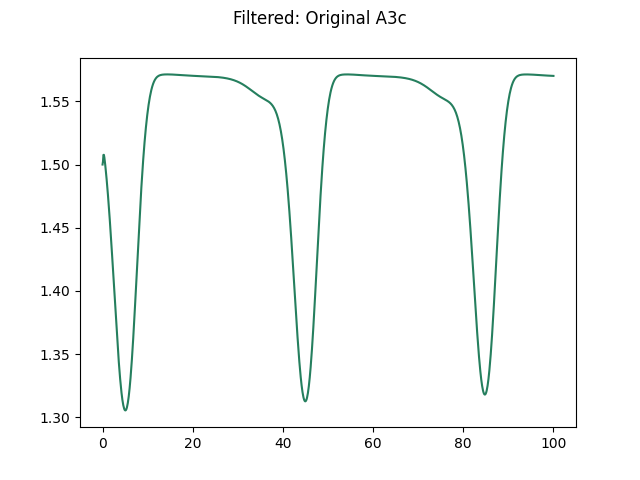
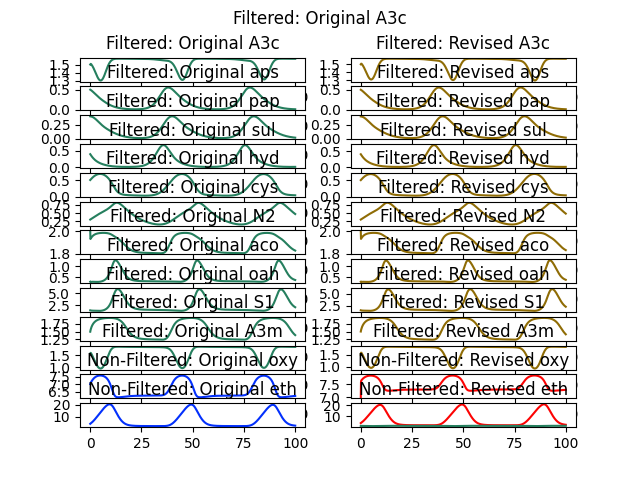
display based on variables complete

diff --git a/static/js/index.js b/static/js/index.js
@@ -11,7 +11,7 @@
 "use strict";
 
 (function() {
-
+  let options = new Set();
   window.addEventListener("load", init);
 
   /**
@@ -31,6 +31,33 @@
       eve.preventDefault();
       runMatcher();
     });
+    id("display-variables").addEventListener("change", selectToDisplay);
+  }
+
+  function selectToDisplay() {
+    if (this.value === "all") {
+      showAllGraphs();
+    } else {
+      hideAllGraphs();
+      let targets = document.getElementsByClassName(this.value);
+      for (let i = 0; i < targets.length; i++) {
+        targets[i].style.display = "";
+      }
+    }
+  }
+
+  function hideAllGraphs() {
+    let allImg = qsa("img");
+    for (let i = 0; i < allImg.length; i++) {
+      allImg[i].style.display = "none";
+    }
+  }
+
+  function showAllGraphs() {
+    let allImg = qsa("img");
+    for (let i = 0; i < allImg.length; i++) {
+      allImg[i].style.display = "";
+    }
   }
 
   function openTab(tabId) {
@@ -66,21 +93,35 @@
   function showResponse(res) {
     let filtered = res.filtered;
     let non_filtered = res['non-filtered'];
-    console.log(filtered);
-    console.log(non_filtered);
     for (let i = 0; i < filtered.length; i++) {
-      let imgPath = filtered[i]
+      let imgPath = filtered[i][0];
       let img = gen("img");
       img.src = "images/filtered/" + imgPath;
       img.id = imgPath;
+      img.classList.add(filtered[i][1]);
       id("filtered-content").appendChild(img);
+      if (!options.has(filtered[i][1])) {
+        let option = gen("option");
+        option.value = filtered[i][1];
+        option.text = filtered[i][1];
+        options.add(filtered[i][1])
+        id("display-variables").appendChild(option);
+      }
     }
     for (let i = 0; i < non_filtered.length; i++) {
-      let imgPath = non_filtered[i]
+      let imgPath = non_filtered[i][0];
       let img = gen("img");
       img.src = "images/non_filtered/" + imgPath;
       img.id = imgPath;
+      img.classList.add(non_filtered[i][1]);
       id("non-filtered-content").appendChild(img);
+      if (!options.has(non_filtered[i][1])) {
+        let option = gen("option");
+        option.value = non_filtered[i][1];
+        option.text = non_filtered[i][1];
+        options.add(non_filtered[i][1])
+        id("display-variables").appendChild(option);
+      }
     }
     let imgPath = "all.png"
     let img = gen("img");
@@ -89,41 +130,6 @@
     id("all-content").appendChild(img);
   }
 
-  /**
-   * Display the orders that contained in the res.
-   * @param {object} res - Json object of the orders
-   */
-  function displayOrders(res) {
-    let response = gen("p");
-    let orders = 'You have ordered ';
-    for (let i = 0; i < res.length; i++) {
-      orders += res[i].dish + " ";
-    }
-    response.textContent += orders;
-    id("result-window").appendChild(response);
-  }
-
-  /**
-   * Clear out the old menu that already displayed on the page.
-   * Display the new menu that contained in the res.
-   * @param {object} res - Json object of the menu
-   */
-  function displayMenu(res) {
-    let food = res.MENU;
-    let oldMenu = qsa("#menu-window p");
-
-    // clean the old view of the menu
-    for (let i = 0; i < oldMenu.length; i++) {
-      oldMenu[i].remove();
-    }
-
-    // add the new view of the menu
-    for (let i = 0; i < food.length; i++) {
-      let foodName = gen("p");
-      foodName.textContent = food[i];
-      id("menu-window").appendChild(foodName);
-    }
-  }
 
   /**
    * This function is called when an error occurs when making request to restaurant server.

diff --git a/templates/index.html b/templates/index.html
@@ -29,6 +29,9 @@
         </select>
         <input type="submit">
       </form>
+      <select id="display-variables">
+        <option value="all" selected>view-all</option>
+      </select>
       <div class="tab">
         <button id="filtered-btn" class="tablinks">Filtered</button>
         <button id="non-filtered-btn" class="tablinks">Non-filtered</button>

diff --git a/static/css/style.css b/static/css/style.css
@@ -1,7 +1,6 @@
 /*
   Frank Yu
   Date: November 20, 2020
-  Section: CSE 154 AA Tal Wolman
   This is the style.css page for my creative project4: A Restaurant online ordering system.
   It is used by the page to give the site a consistent look and feel.
   Most of its style is used to sperate parts to make it have a clean look.

diff --git a/app.py b/app.py
@@ -135,7 +135,7 @@ def run():
         fig.suptitle("Filtered: Original " +
                                 match_results.original_ts.variable)
         fig.savefig('images/filtered/filtered_original_' + match_results.original_ts.variable + '.png', format="png")
-        filtered_result.append('filtered_original_' + match_results.original_ts.variable + '.png')
+        filtered_result.append(['filtered_original_' + match_results.original_ts.variable + '.png', match_results.original_ts.variable])
         plt.close(figureCount)
         figureCount += 1
         fig = plt.figure(figureCount)
@@ -144,7 +144,7 @@ def run():
         fig.suptitle("Filtered: Revised " +
                                 match_results.revised_ts.variable)
         fig.savefig('images/filtered/filtered_revised_' + match_results.revised_ts.variable + '.png', format="png")
-        filtered_result.append('filtered_revised_' + match_results.revised_ts.variable + '.png')
+        filtered_result.append(['filtered_revised_' + match_results.revised_ts.variable + '.png', match_results.revised_ts.variable])
         plt.close(figureCount)
 
     non_filtered_result = []
@@ -156,7 +156,7 @@ def run():
         fig.suptitle("Non-Filtered: Original " +
                                 match_results.original_ts.variable)
         fig.savefig('images/non_filtered/non_filtered_original_' + match_results.original_ts.variable + '.png', format="png")
-        non_filtered_result.append('non_filtered_original_' + match_results.original_ts.variable + '.png')
+        non_filtered_result.append(['non_filtered_original_' + match_results.original_ts.variable + '.png', match_results.original_ts.variable])
         plt.close(figureCount)
         figureCount += 1
         fig = plt.figure(figureCount)
@@ -165,7 +165,7 @@ def run():
         fig.suptitle("Non-Filtered: Revised " +
                                 match_results.revised_ts.variable)
         fig.savefig('images/non_filtered/non_filtered_revised_' + match_results.revised_ts.variable + '.png', format="png")
-        non_filtered_result.append('non_filtered_revised_' + match_results.revised_ts.variable + '.png')
+        non_filtered_result.append(['non_filtered_revised_' + match_results.revised_ts.variable + '.png', match_results.revised_ts.variable])
         plt.close(figureCount)
     combined_result = {"filtered": filtered_result, "non-filtered": non_filtered_result}
     return jsonify(combined_result)
